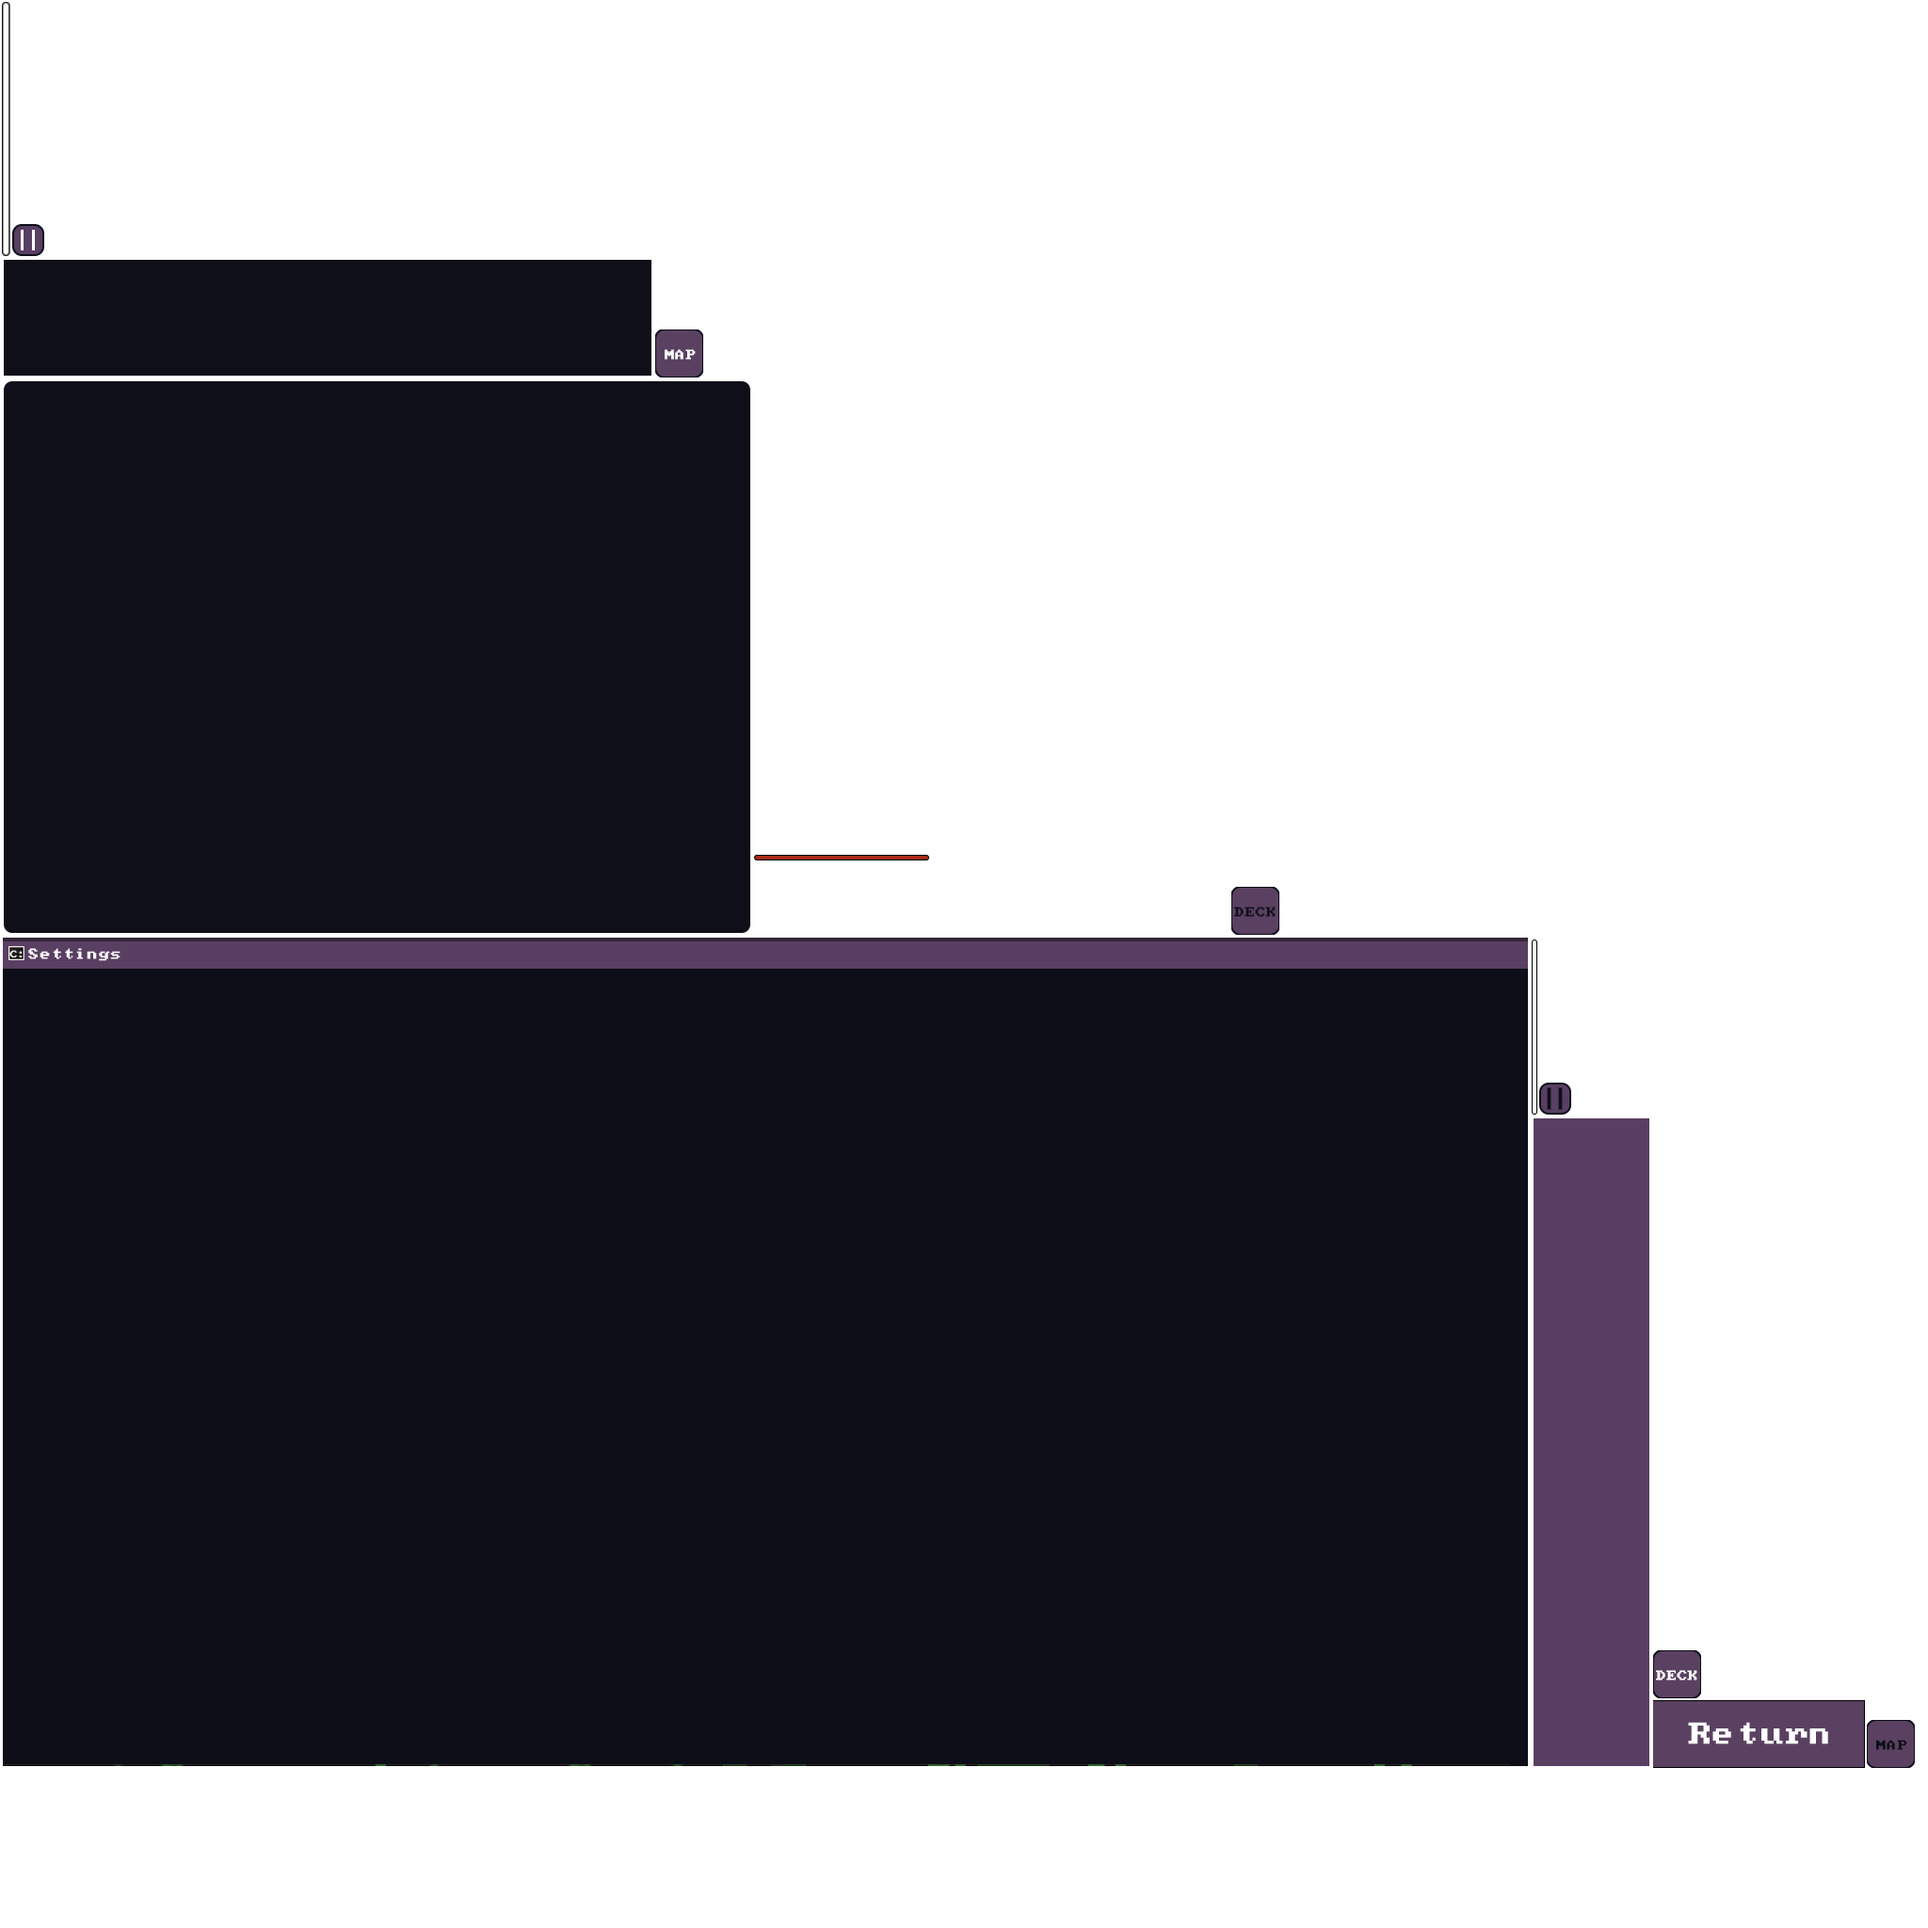
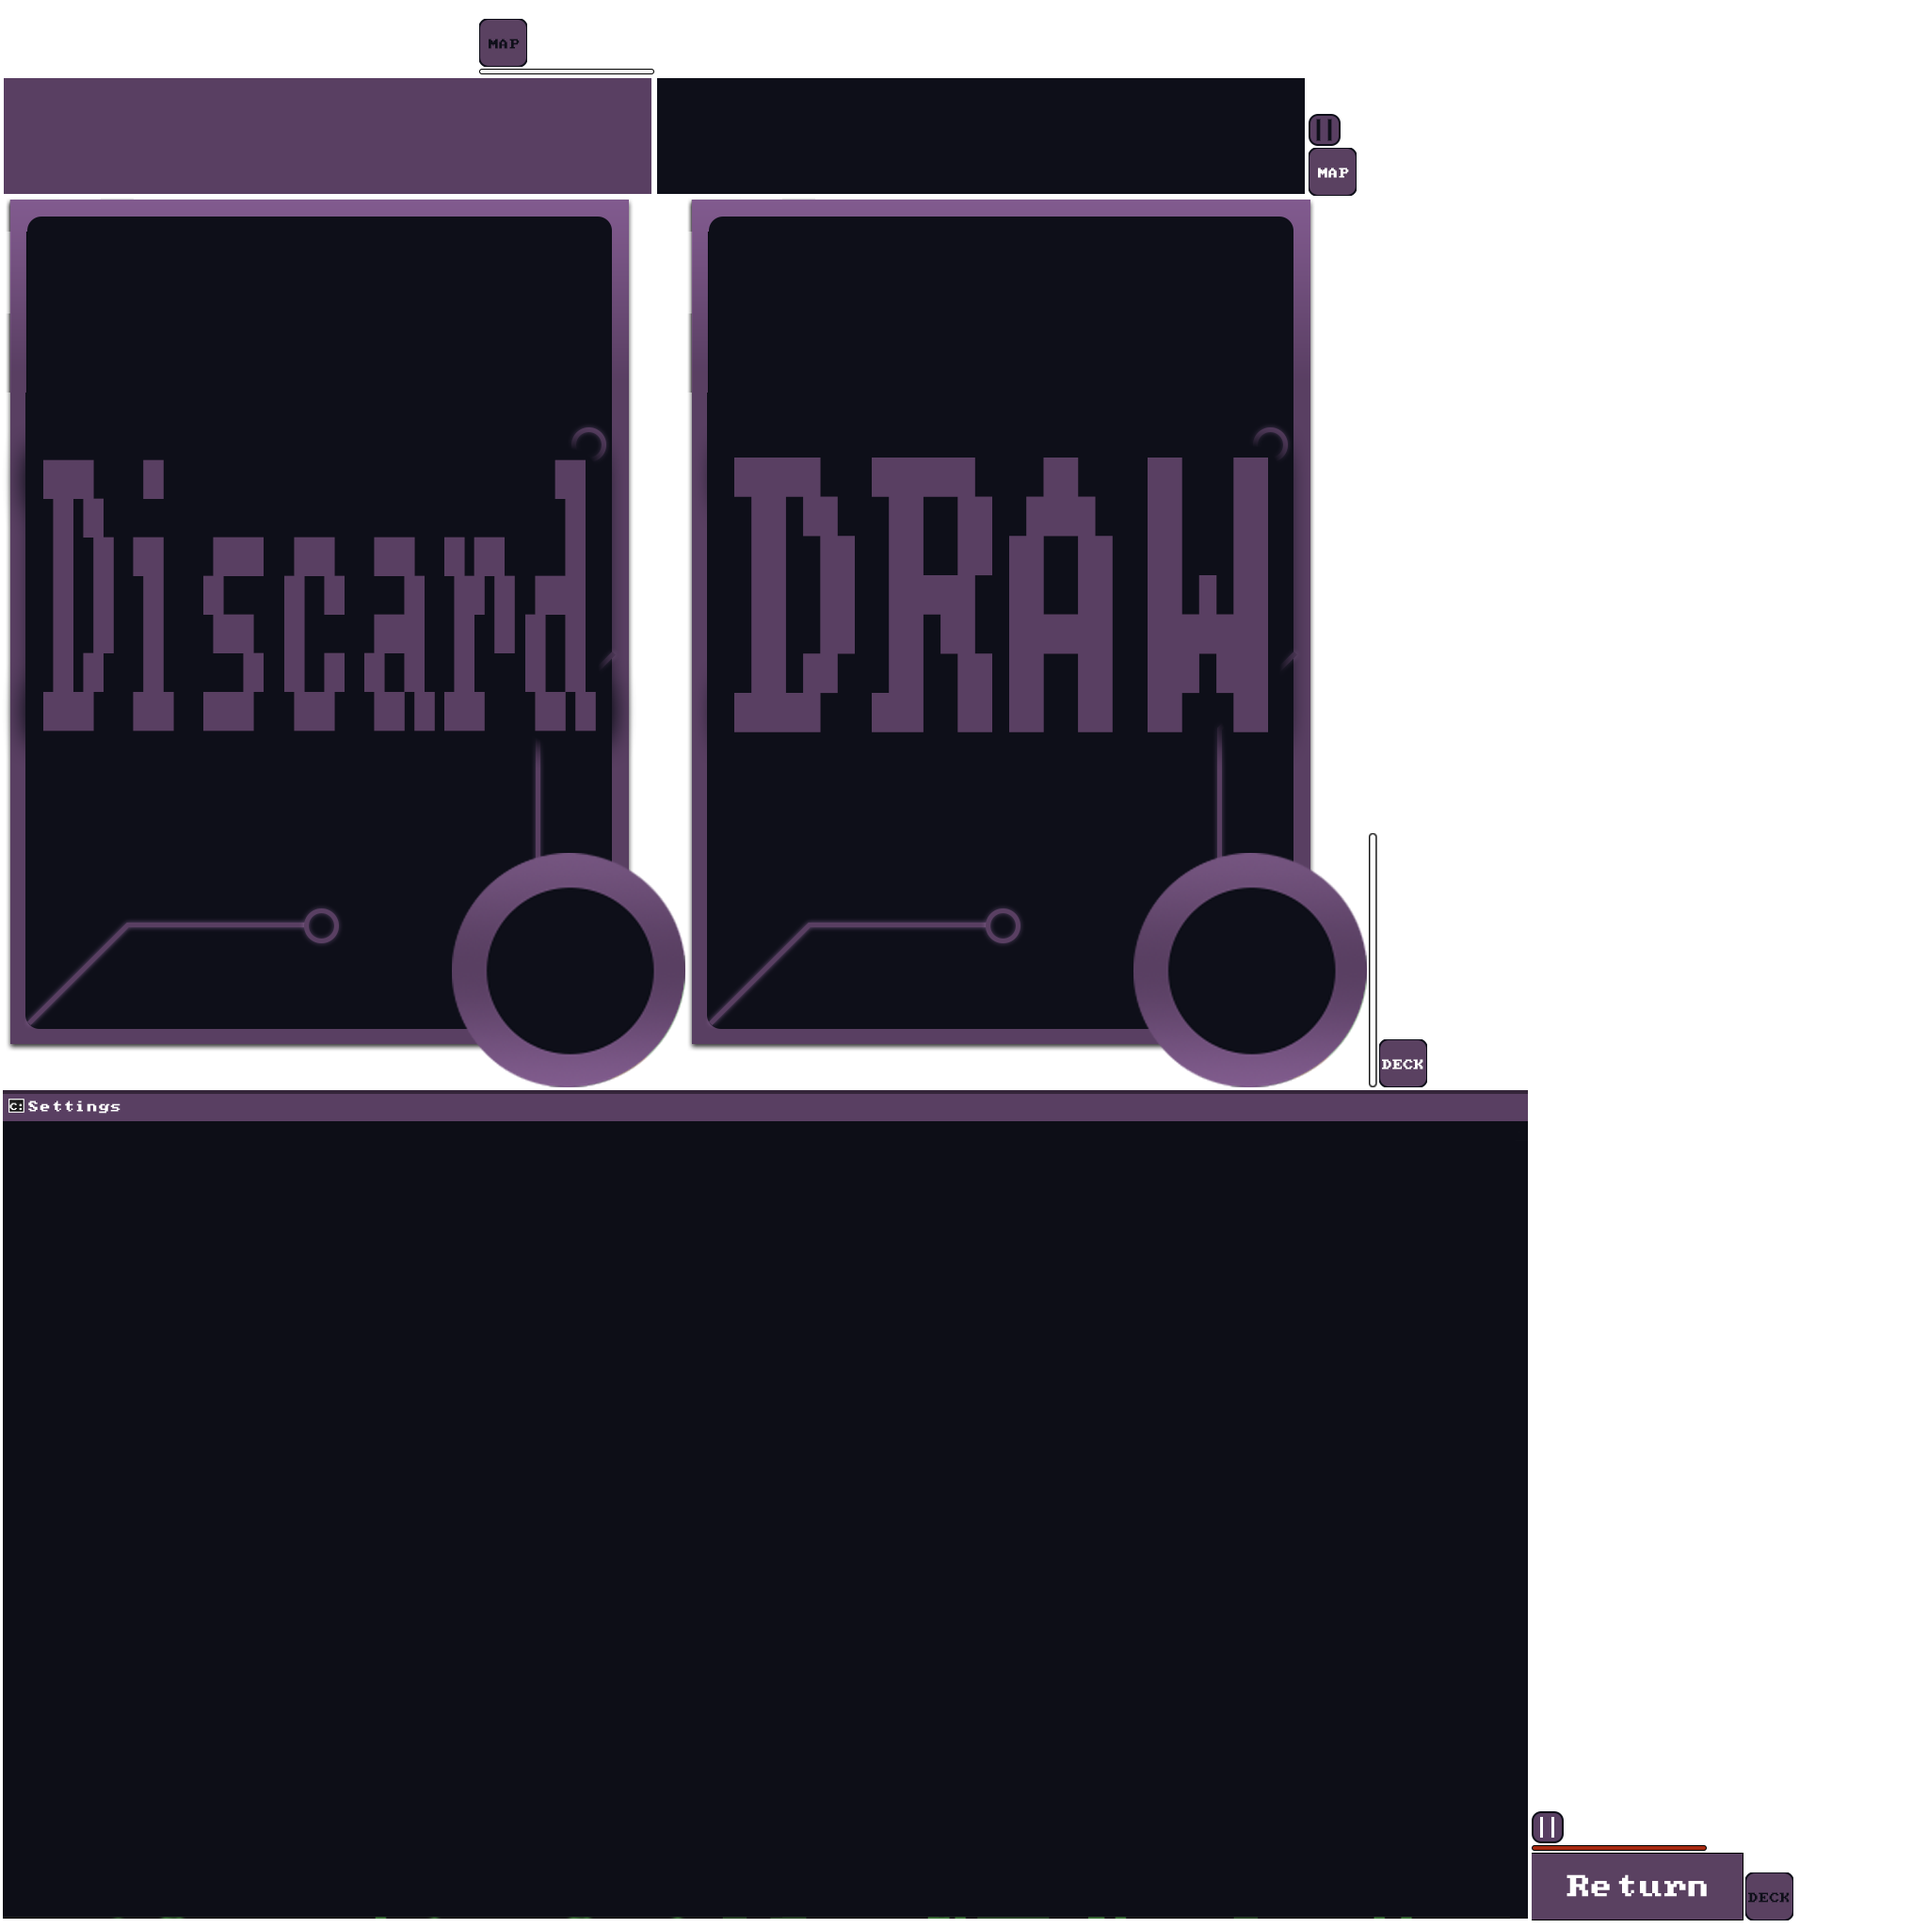
new cards thx Eva <3

diff --git a/gip-game-project/core/src/com/mygdx/game/cards/Card.java b/gip-game-project/core/src/com/mygdx/game/cards/Card.java
@@ -6,6 +6,7 @@ import com.badlogic.gdx.scenes.scene2d.Actor;
 import com.badlogic.gdx.scenes.scene2d.InputEvent;
 import com.badlogic.gdx.scenes.scene2d.actions.ScaleByAction;
 import com.badlogic.gdx.scenes.scene2d.ui.Image;
+import com.badlogic.gdx.scenes.scene2d.ui.Label;
 import com.badlogic.gdx.scenes.scene2d.ui.Table;
 import com.badlogic.gdx.scenes.scene2d.utils.ClickListener;
 import com.badlogic.gdx.scenes.scene2d.utils.TextureRegionDrawable;
@@ -17,6 +18,7 @@ import java.util.UUID;
 public class Card extends Image {
     private int id;
     private String title;
+    private Label description;
     private CardType cardType;
     private int cost;
     private TextureRegion textureRegion;
